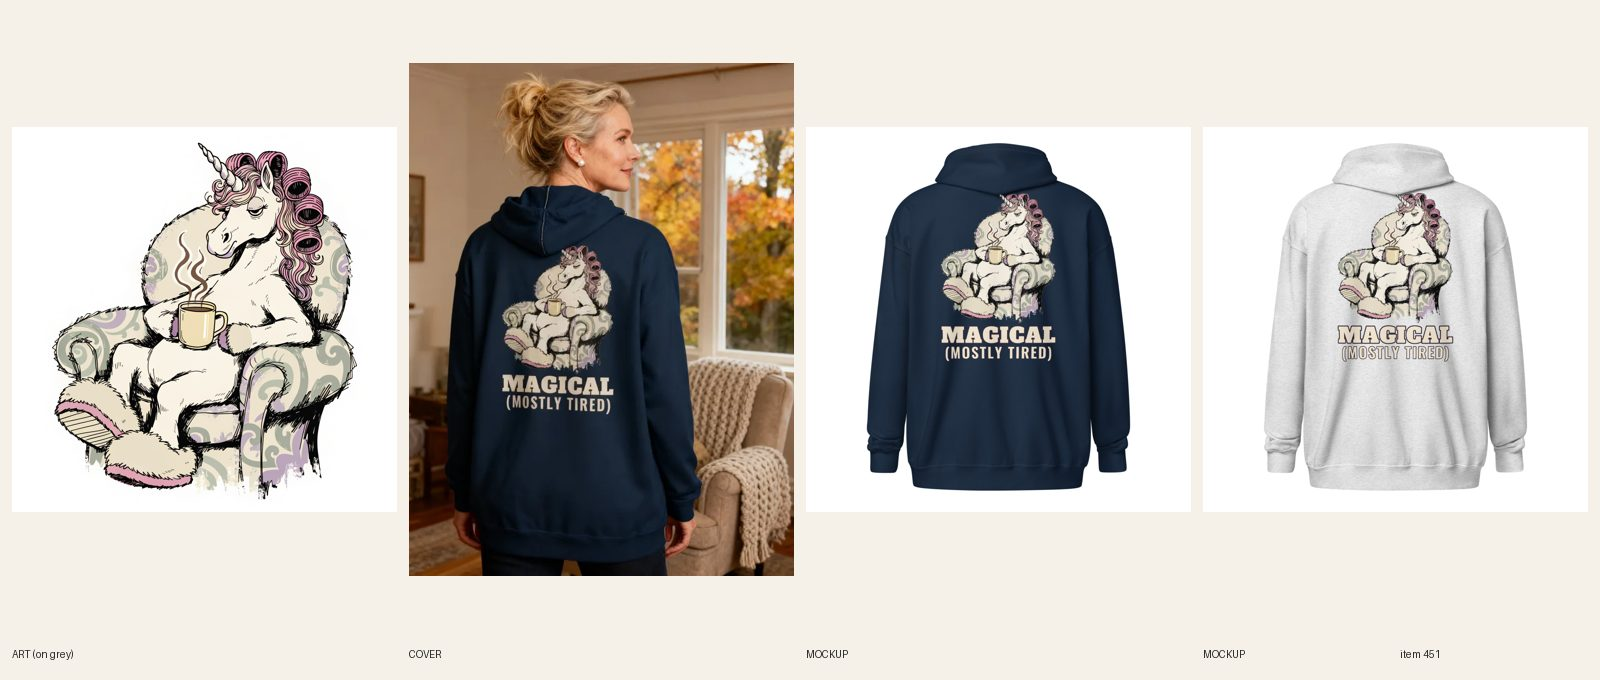
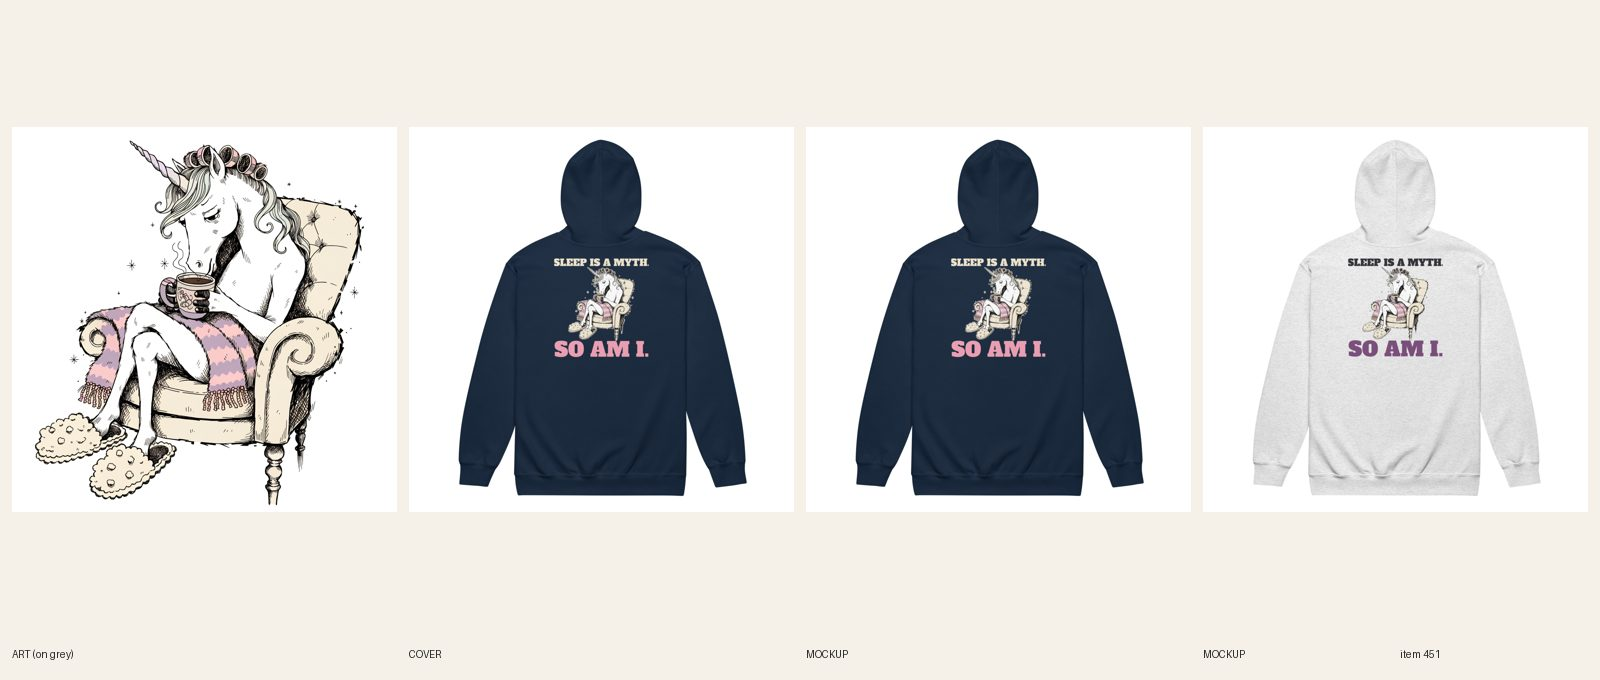
[E] review 451 redid #451 Women's Unicorn zip hoodie (line + type: SLEEP IS A MYTH. / SO AM I., new armchair-unicorn art, Alfa Slab One, Navy + Ash dark-ink file, new chest copy, 12/12 synced). REVIEW. fal $0.04.

diff --git a/scripts/e-zip.py b/scripts/e-zip.py
@@ -1,0 +1,33 @@
+#!/usr/bin/env python3
+"""e-zip.py <dir> <sync_pid> <BW> <BT> <CW> <chest.png> Color=back.png [Color=back2.png ...]   (lane E zip-hoodie redo, Gildan 18600 #692)
+Uploads the chest copy and each back print (waits until Printful has their size), starts the paced pf-zip.py sync per color in the
+background (<dir>/sync_<Color>.log), makes one mockup task per color (retries), prints the front and back mockup URLs. Reads secrets from the environment."""
+import os, sys, json, subprocess, time, shlex, urllib.request
+d, pid, bw, bt, cw, chest = sys.argv[1:7]; pairs = [a.split('=', 1) for a in sys.argv[7:]]
+H = {'Authorization': 'Bearer ' + os.environ['PRINTFUL_TOKEN'], 'User-Agent': 'gtc'}
+def get(p): return json.load(urllib.request.urlopen(urllib.request.Request('https://api.printful.com' + p, headers=H), timeout=60))['result']
+def up(png):
+    url = subprocess.check_output([sys.executable, 'scripts/fal-host.py', png], text=True).strip()
+    fid = subprocess.check_output([sys.executable, 'scripts/pf-sync.py', 'upload', url, os.path.basename(png)], text=True).strip()
+    for _ in range(40):
+        f = get(f'/files/{fid}')
+        if f.get('width') and f.get('height') and f.get('status') == 'ok': return fid, f
+        time.sleep(4)
+    raise SystemExit('file not ready ' + png)
+cf, cinfo = up(chest); open(f'{d}/id_chest', 'w').write(cf); print('chest', cf, flush=True)
+vs = get(f'/sync/products/{pid}')['sync_variants']
+env = dict(os.environ, BW=bw, BT=bt, CW=cw, FORCE='1', CHEST_FID=cf, CHEST_H=str(cinfo['height']), CHEST_W=str(cinfo['width']), CHEST_URL=cinfo['url'])
+info = {}
+for c, png in pairs:
+    fid, f = up(png); info[c] = (fid, f['width'], f['height'], f['url']); open(f'{d}/id_{c}', 'w').write(fid); print(c, fid, flush=True)
+cmds = ' ; '.join(f"ONLY={shlex.quote('/ ' + c + ' /')} {sys.executable} scripts/pf-zip.py sync {pid} {fid} {w} {h} > {shlex.quote(d + '/sync_' + c + '.log')} 2>&1" for c, (fid, w, h, u) in info.items())
+subprocess.Popen(['bash', '-c', cmds], env=env, start_new_session=True, stdout=subprocess.DEVNULL, stderr=subprocess.DEVNULL)
+for c, (fid, w, h, u) in info.items():
+    v = next(v for v in vs if f' / {c} / M' in v['name'] or f' / {c} / L' in v['name'])
+    for t in range(4):
+        r = subprocess.run([sys.executable, 'scripts/pf-zip.py', 'mockup', '692', u, str(w), str(h), str(v['variant_id']), f'{d}/mock_{c}.json'], env=env, capture_output=True)
+        if r.returncode == 0: break
+        time.sleep(20)
+    else: raise SystemExit('mockup failed ' + c)
+    m = json.load(open(f'{d}/mock_{c}.json')); m = m[str(v['variant_id'])] if str(v['variant_id']) in m else list(m.values())[0]
+    print(c, 'FRONT', m['front:Front'] if 'front:Front' in m else m['back:Front']); print(c, 'BACK', m['back:Back'], flush=True)

diff --git a/scripts/e-chest.py b/scripts/e-chest.py
@@ -1,0 +1,13 @@
+#!/usr/bin/env python3
+"""e-chest.py <art.png> <x0,y0,x1,y1> <out.png> [halo_fill]: crop a head from the art for the zip-hoodie left-chest copy, print-prep to 1560 px, cream halo."""
+import subprocess, sys
+from PIL import Image, ImageFilter
+x = [int(v) for v in sys.argv[2].split(',')]; fill = sys.argv[4] if len(sys.argv) > 4 else '#f3e7cf'
+Image.open(sys.argv[1]).convert('RGB').crop(x).save('/tmp/claude-0/_c.png')
+subprocess.run([sys.executable, 'scripts/print-prep.py', '--solid', '/tmp/claude-0/_c.png', '/tmp/claude-0/_c2.png', '--width', '1560'], check=True, stdout=subprocess.DEVNULL)
+art = Image.open('/tmp/claude-0/_c2.png').convert('RGBA'); art = art.crop(art.getbbox()); r = 8
+g = art.split()[3].point(lambda v: 255 if v > 40 else 0).filter(ImageFilter.MaxFilter(2 * r + 1)).filter(ImageFilter.GaussianBlur(2))
+ring = Image.new('RGBA', art.size, fill); ring.putalpha(g)
+pad = Image.new('RGBA', (art.width + 2 * r, art.height + 2 * r), (0, 0, 0, 0)); pad.alpha_composite(ring, (r, r)); pad.alpha_composite(art, (r, r))
+pad.save(sys.argv[3], dpi=(300, 300)); print(pad.size)
+o = Image.new('RGB', pad.size, (26, 34, 62)); o.paste(pad, (0, 0), pad); o.thumbnail((500, 500)); o.save('/tmp/claude-0/_chest_look.png')

diff --git a/docs/pipeline/451-unicorn-zip-hoodie-magical-mostly-tired.md b/docs/pipeline/451-unicorn-zip-hoodie-magical-mostly-tired.md
@@ -1,4 +1,4 @@
-status: REDO
+status: REVIEW
 lane: E
 type: new
 id: 451
@@ -29,3 +29,4 @@ kd: 34
 - 2026-10-18 01:20 UTC builder [E]: REVIEW. Art: 1 Recraft call (try 1 kept: curlers, slippers, cocoa, drooping horn, armchair), MAGICAL (Alfa Slab One) / (MOSTLY TIRED) (Oswald 600) cream with a dark keyline via compose-print (solid fill so the white unicorn stays opaque), no model lettering. Back print 11.2 x 16.6 in at BW 1560 BT 40 (the 2400 px area cannot take BW 1650 for this tall file; still above the 1500 floor) plus a head-only left-chest copy (file 1088596986, CW 525); back file 1088596981, sync 482489998 12/12 via pf-zip. Colors Ash + Navy; both mockups read at phone size, (MOSTLY TIRED) is lighter on Ash but the keyline carries it. Media: back + front per color, variants linked to the color's back view. Copy fixed (hand-drawn caps -> slab-serif capitals), 5 FAQs 40-60 words incl. Dec 8. Cover registry 649: attempt 1 turned the body and the arm hid the L and D; attempt 2 (straight from behind) shows every letter, hood visible, nothing over the print; alt starts Woman. Variant-photo audit clean; audit --handle only 'not visible'. fal ~$0.2.
 - 2026-10-18 01:19 UTC director: LIVE. Unicorn in curlers is a real reaction piece; (MOSTLY TIRED) holds on Ash thanks to the keyline. ACTIVE + Online Store/Headless/Google & YouTube, audit PASS 0 warn.
 - 2026-10-18 17:22 UTC director: QUALITY RESET grade C (new line + type), REDO. The product stays ACTIVE (same handle, URL, title keyword). 1. Line (R3.12, quality-reset 'Lines'): "MAGICAL / (mostly tired)": Noun + mild parenthetical aside; no punch. Art panel has no type, small text. Write 5 candidates, keep the one a stranger laughs at in 3 seconds without backstory; kill lines that only describe the picture; if none of the 5 is funny, PARK it. 2. Quality reset type bar (docs/backlog/quality-reset.md, 'The new bar'): headline at least 90% of the art width, heavy, colors pulled from the art; second line at least 45% of the headline's height, never a thin script on a dark or mid garment; use the lettering as a shape (arch, stacked lockup, words breaking into the art), not a plain bar above and a script line below; no font used on more than 1 in 6 of the last 30 designs. 3. Keep the art if it carries the new line, else one new illustration (R4/R5). New print means a new cover per R6.10, copy line one rewritten for the new joke (R8.3), and a fresh review sheet (R7.7). While quality-reset.md says PAUSED, only lane A builds, and only the samples step 2 names.
+- 2026-10-20 06:11 UTC builder [E]: REDO 451 (C grade, line + type) done in place (stays ACTIVE, handle unchanged; title now Women's Unicorn – Sleep Is A Myth, So Am I Zip Hoodie). 5 candidates: 'MAGICAL (mostly tired)' (old); 'SLEEP IS A MYTH. / SO AM I.'; 'MYTHICAL. AND EXHAUSTED.'; 'NOT A MORNING UNICORN.'; 'MOM: A MYTHICAL CREATURE ON ONE HOUR OF SLEEP'. Kept SLEEP IS A MYTH. / SO AM I. (the unicorn is the myth; works with no backstory). One Recraft call ($0.04), picture only: tired unicorn in curlers and slippers with cocoa in an armchair. Alfa Slab One: SLEEP IS A MYTH. at full print width, SO AM I. as the loud punchline at full width (taller than the headline by design). Navy back file 1090197664 (cream + pink, thin cream halo); Ash back file 1090197721 (charcoal + plum, dark ink; light file logged for Ash). Back BW 1650 BT 150 (10.4 in at FW1500 equivalent, tall art fits the 2400 px area), chest copy 525 px (whole unicorn in armchair, file 1090197593, cream halo). Verified 12/12 with back and chest on the new files. Back and front mockups replaced in place, alts, title, SEO, copy, FAQs rewritten (ink named from the mockups). Phone-size read OK. Cover: handle added to retired-covers.json. audit PASS 0 warn, build OK. Sheet docs/review/451.jpg.

diff --git a/docs/intake-log.md b/docs/intake-log.md
@@ -5,6 +5,7 @@ RUNNING lane B since 2026-10-20 05:30 UTC
 2026-10-20 06:04 UTC — [B] Builder run: redid #362 round 2 (MISSED THE PLAY. / SEEDS WERE GOOD., punch widened to headline width. headline 3600 px / punch 3600 px). REVIEW. fal $0.
 2026-10-20 06:03 UTC — [B] Builder run: redid #404 round 2 (MAIN QUEST / POSTPONED., punch widened to headline width. headline 3593 px / punch 3593 px). REVIEW. fal $0.
 2026-10-20 06:08 UTC — [B] Builder run: redid #485 Unisex Embroidered raccoon hoodie (line + type: MILE ONE. / SNACKS GONE., same raccoon thread art, burnt orange thread, 12/12 synced). REVIEW. fal $0.
+2026-10-20 06:11 UTC — [E] Builder run: redid #451 Women's Unicorn zip hoodie (line + type: SLEEP IS A MYTH. / SO AM I., new armchair-unicorn art, Alfa Slab One, Navy + Ash dark-ink file, new chest copy, 12/12 synced). REVIEW. fal $0.04.
 2026-10-20 05:46 UTC — [B] Builder run: redid #280 Women's Thanksgiving pumpkin hoodie round 2 (R3.7.8: punch THE WARM-UP. widened to headline width, 3600/3600 px, Navy + Sand, 12/12 synced). REVIEW. fal $0.
 2026-10-20 05:53 UTC — [E] Builder run: redid #438 Women's Panda zip hoodie (line + type: ENDANGERED / MORNING PERSON., new sleepy-panda-in-bed art, Bowlby One, Navy + Ash dark-ink file, new head chest copy, 12/12 synced). REVIEW. fal $0.04.
 2026-10-20 05:57 UTC — [B] Builder run: redid #473 Unisex Embroidered hoodie (line + type: CIRCLE / BACK / NEVER., new stacked lettering in thread, Sand #333366 + Navy #FFFFFF, 12/12 synced). REVIEW. fal $0.
